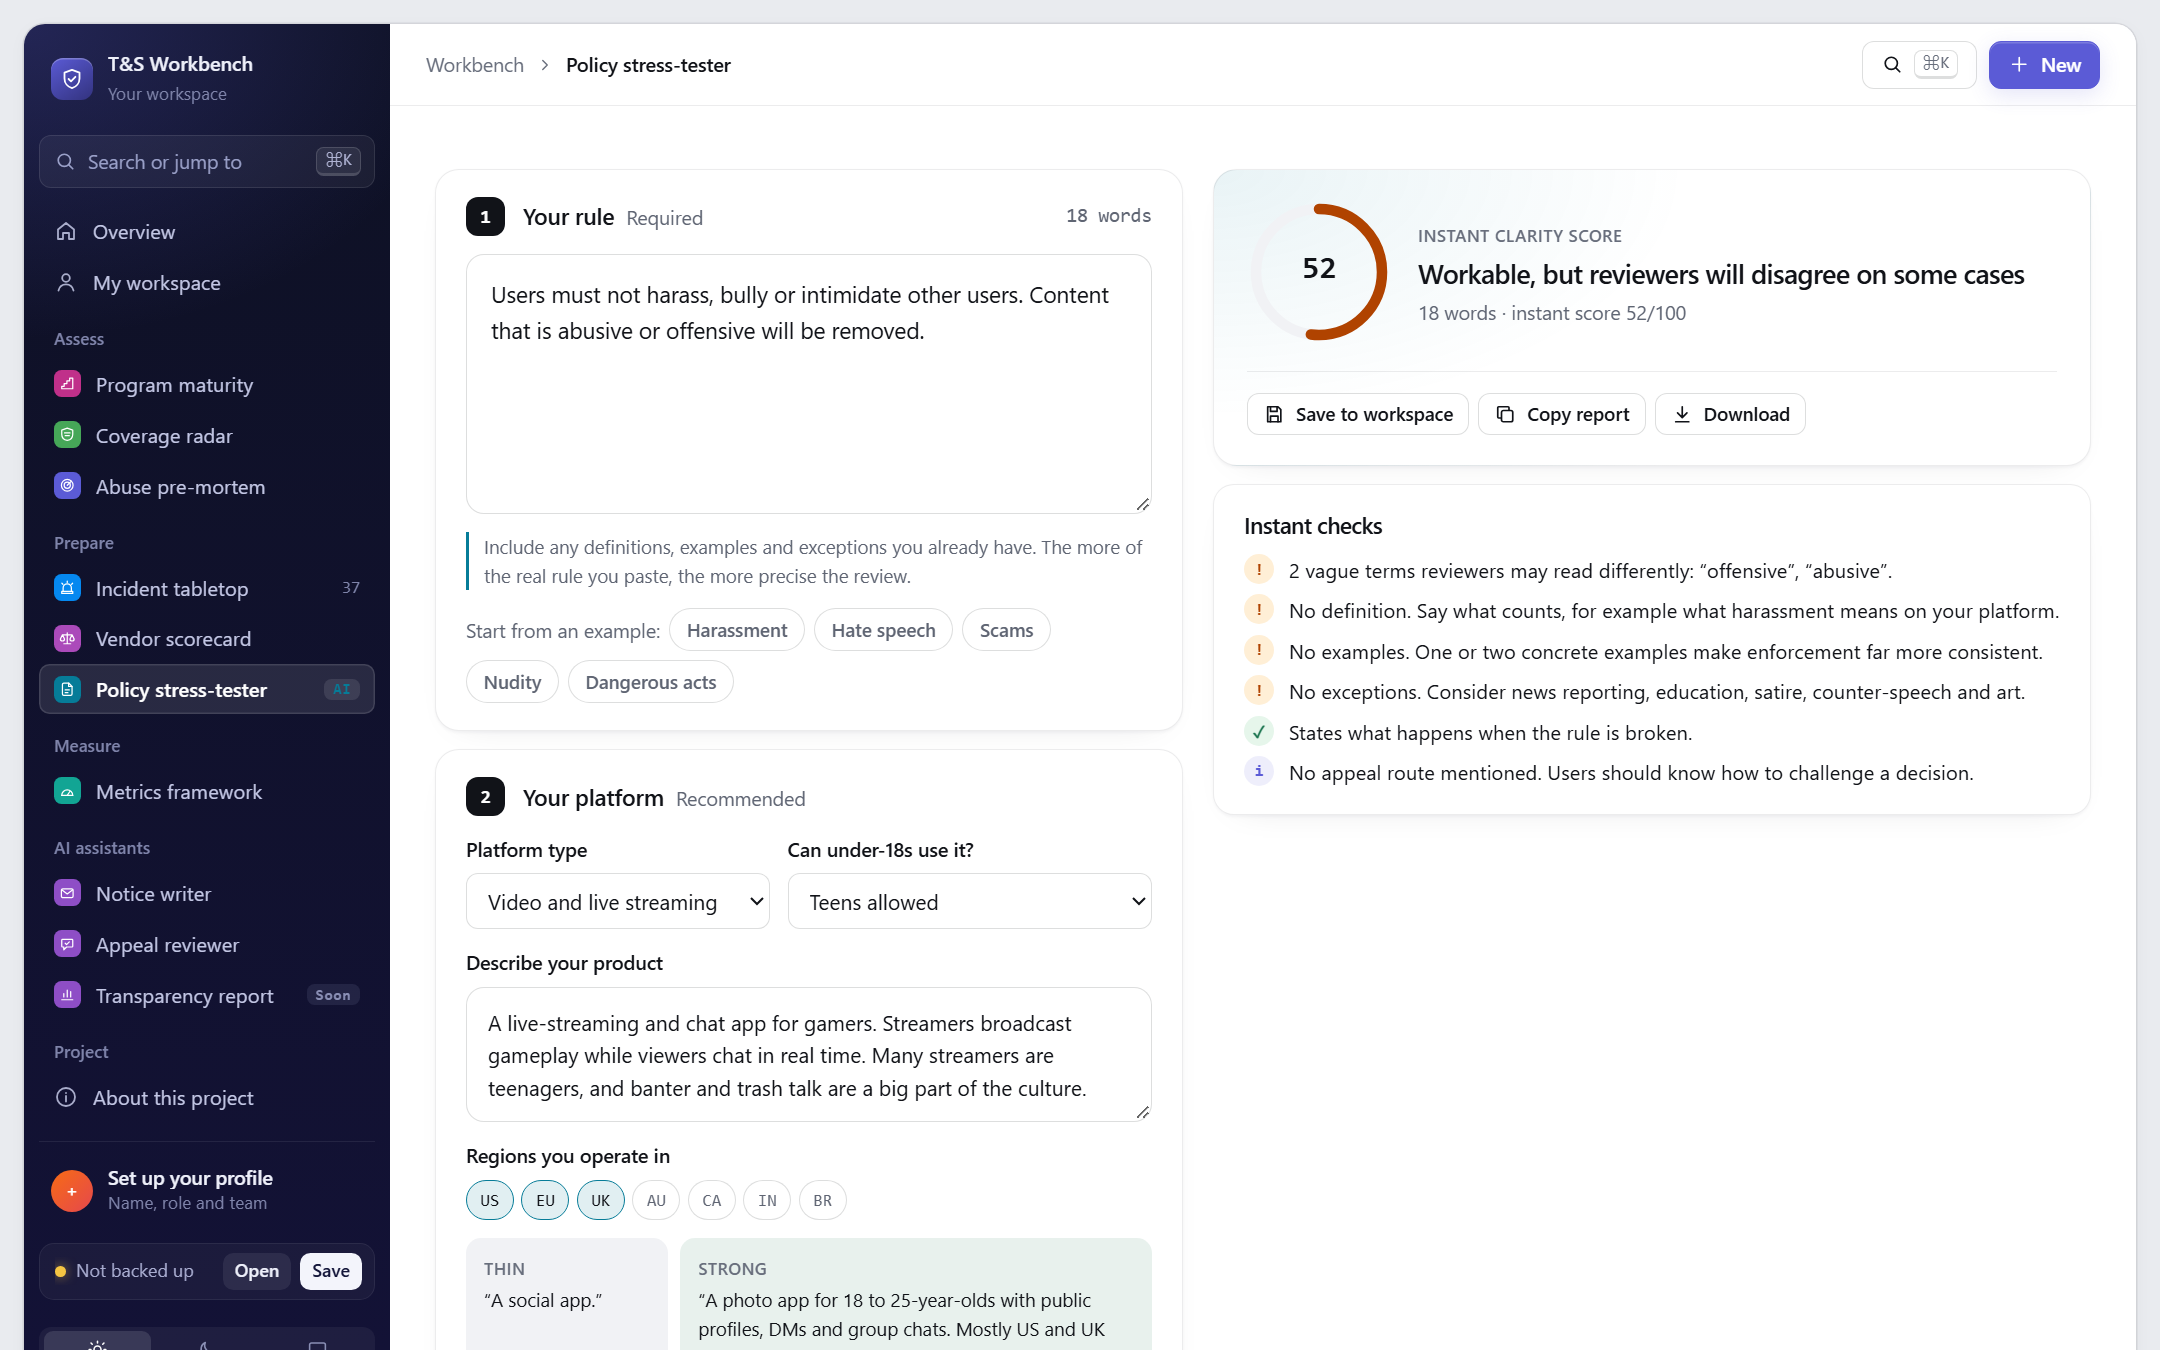
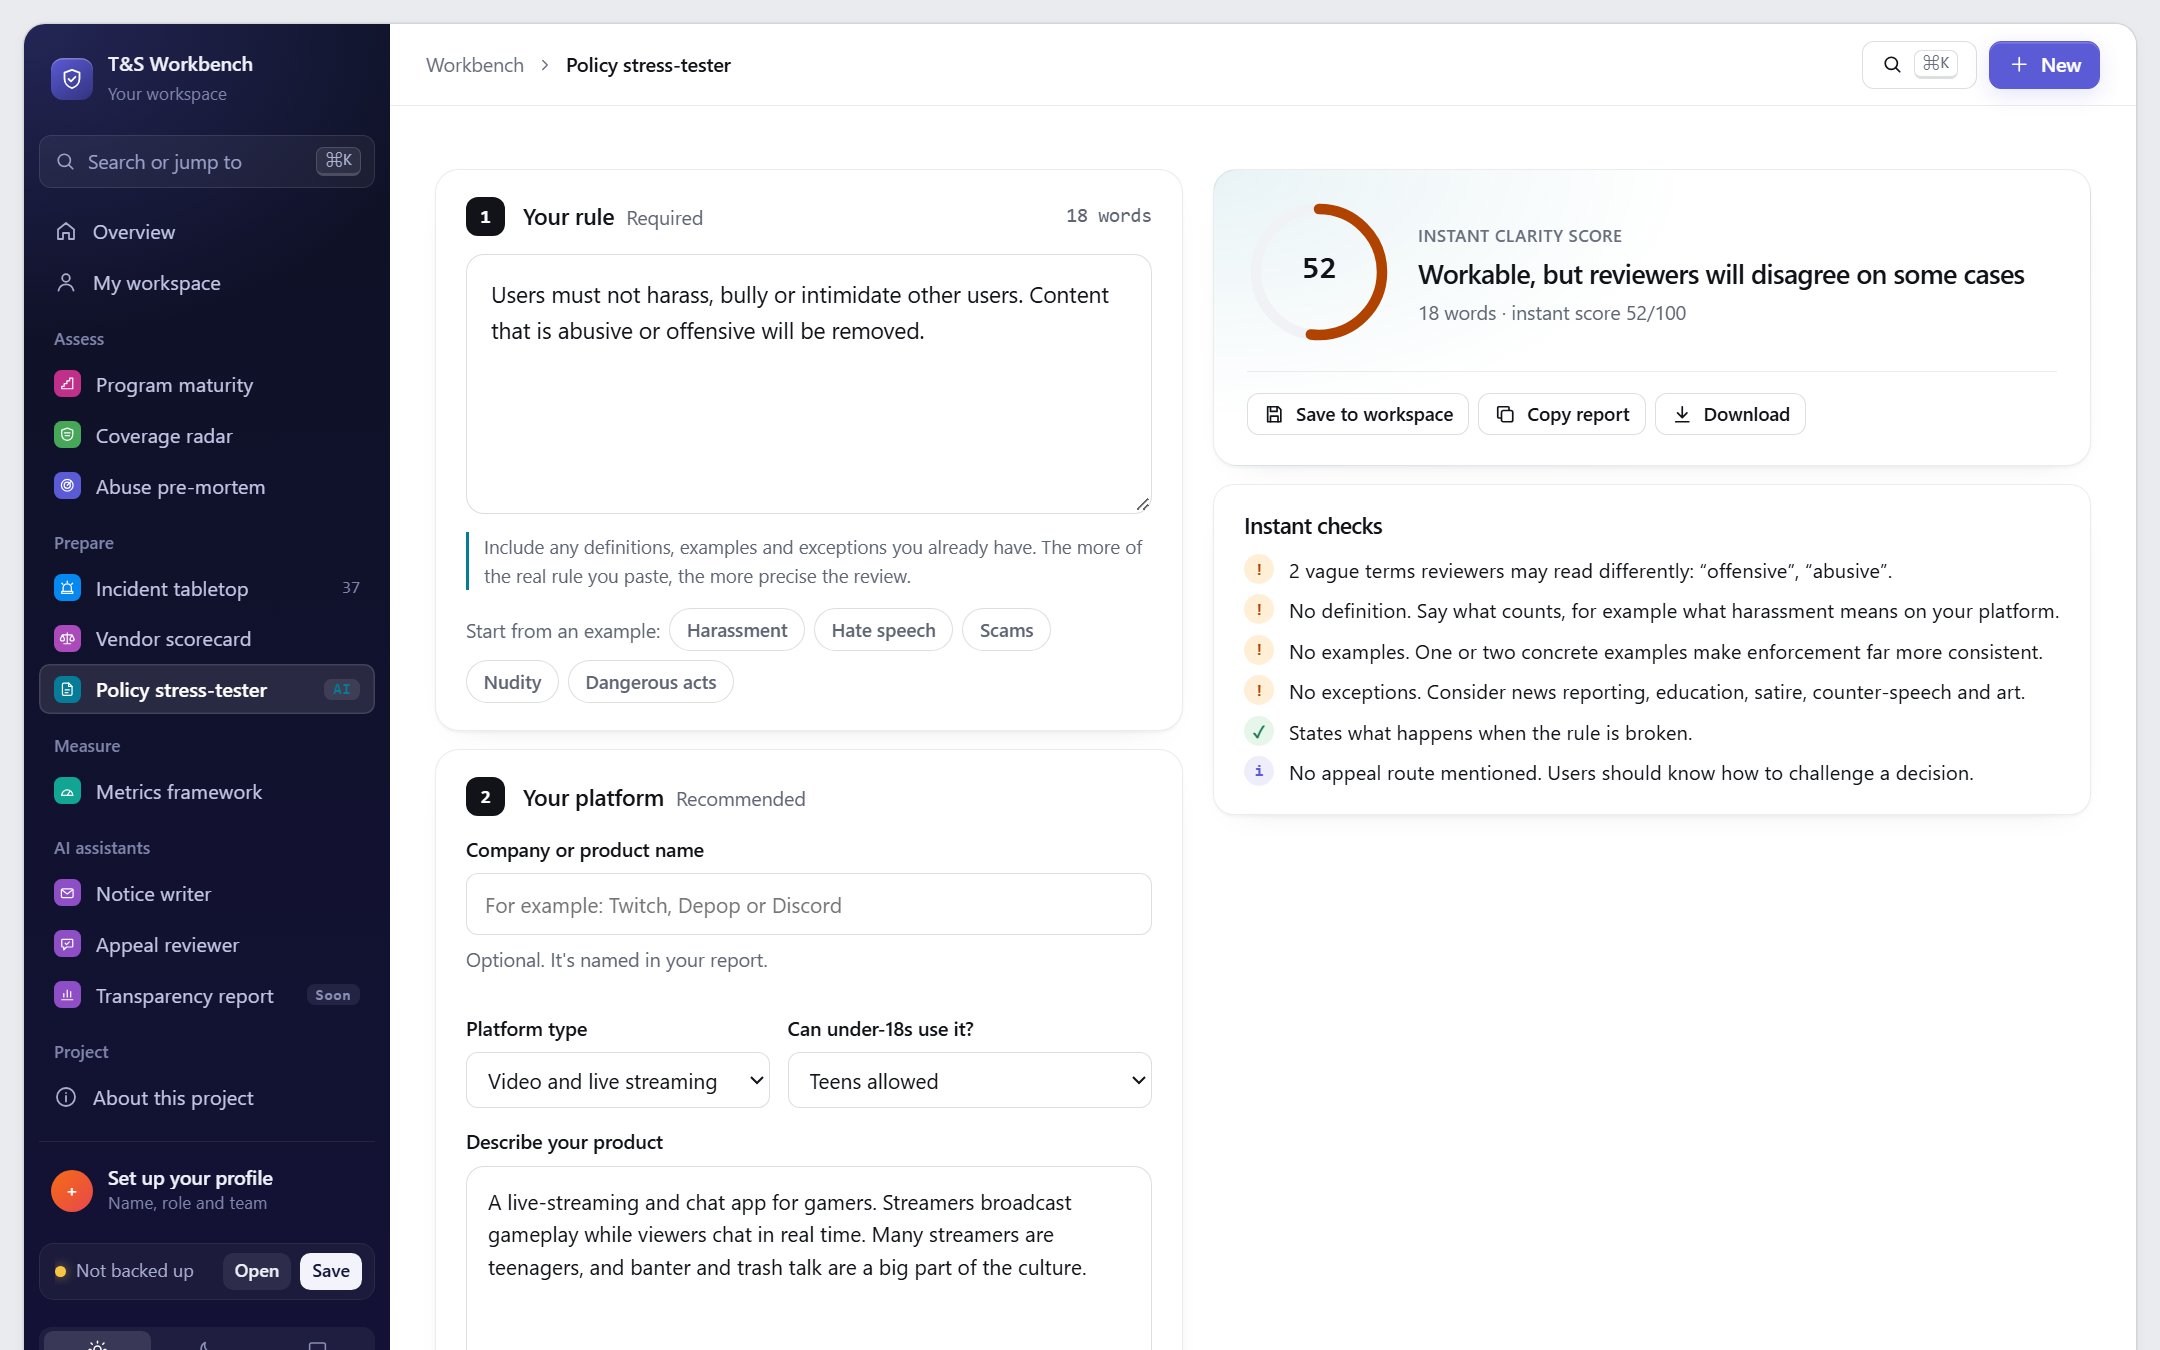
Policy stress-tester: name the company and Claude fills in the platform details

Changed region(s): [[0.2171, 0.7467, 0.4963, 0.9956], [0.2171, 0.6222, 0.4343, 0.7156]]

diff --git a/prompts/policy-stress-tester.md b/prompts/policy-stress-tester.md
@@ -14,6 +14,7 @@ Shown with the complete example (a live-streaming platform with teen users) fill
 You are a senior trust and safety policy lead reviewing a platform rule before it goes live. Stress-test it: find where two reviewers would disagree, what it leaves out, and how it holds up against realistic hard cases on THIS platform.
 
 CONTEXT
+Company or product: Not provided
 Platform type: Video and live streaming
 Product description: A live-streaming and chat app for gamers. Streamers broadcast gameplay while viewers chat in real time. Many streamers are teenagers, and banter and trash talk are a big part of the culture.
 Audience: Teens allowed
@@ -29,6 +30,7 @@ Users must not harass, bully or intimidate other users. Content that is abusive 
 
 INSTRUCTIONS
 - Base every finding on the rule text and the context. Where context is "Not provided", make a sensible assumption and list it under "assumptions".
+- If you recognize the company or product named in the context, use what you know about how that platform works and how people use it to make the hard cases realistic. Don't invent specifics you aren't sure of.
 - Edge cases must be realistic for this platform and audience. Turn the team's concerns into edge cases where relevant. Across the set, include at least one case each of news or documentary use, satire or humour, counter-speech, and, if under-18s may be present, a case involving a minor.
 - Use "escalate" for cases a reviewer could not decide from the rule text alone.
 - Tie enforcement risks to the enforcement methods and actions listed.
